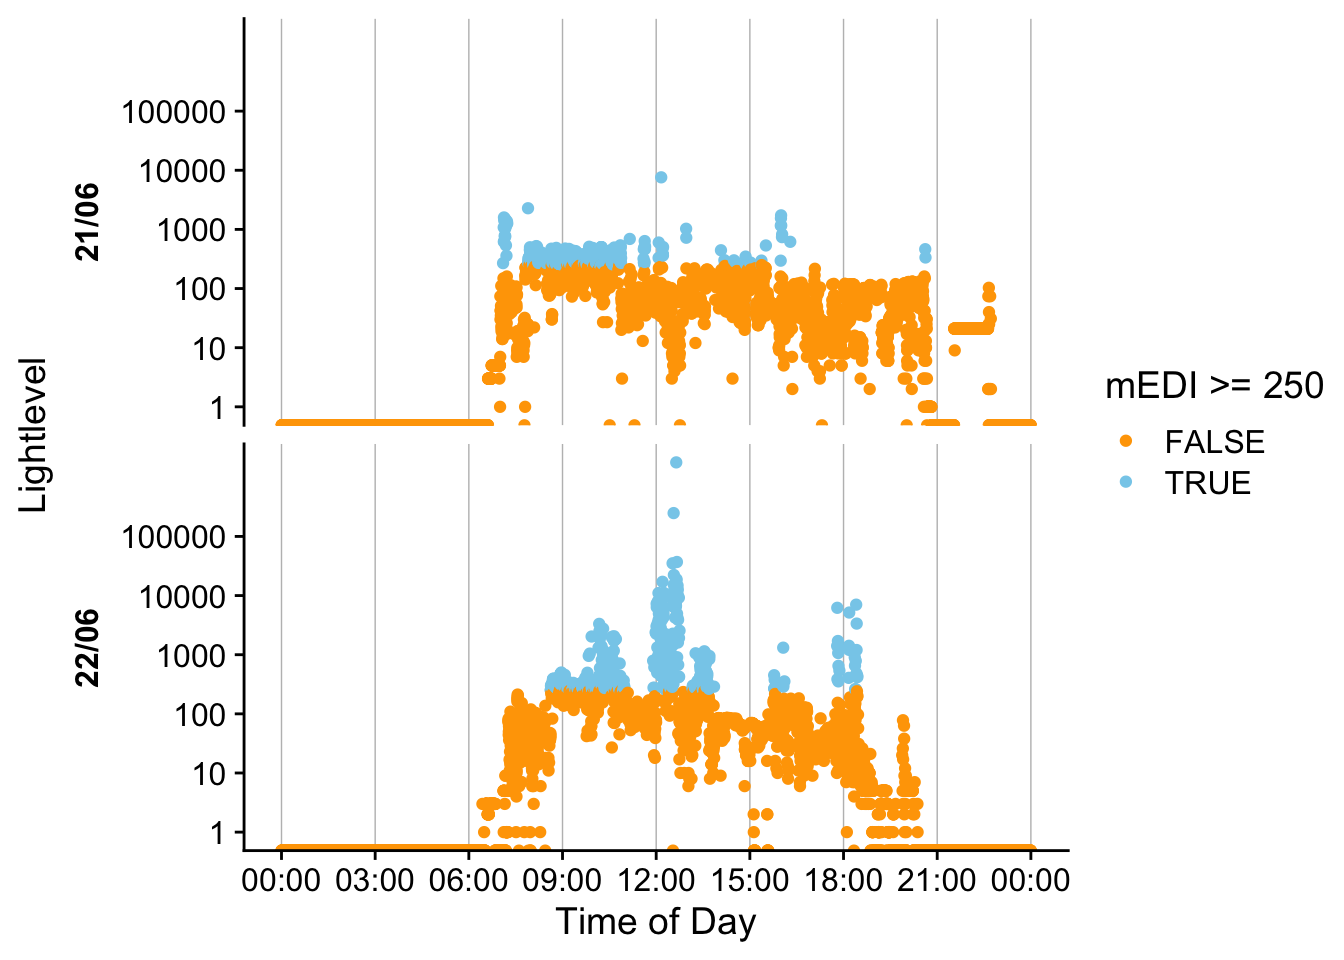
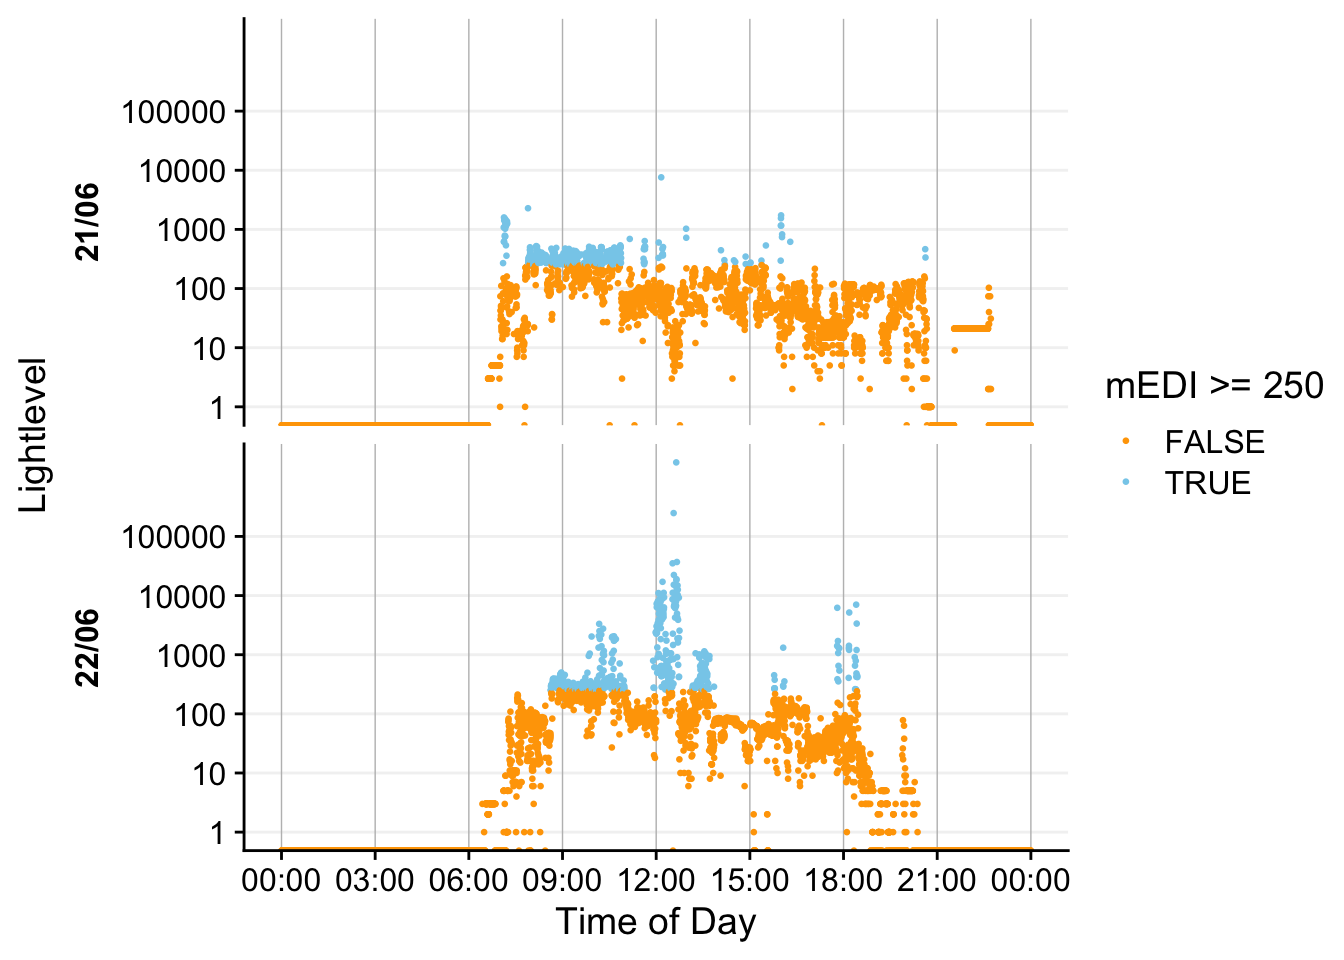
Update to README

diff --git a/README.md b/README.md
@@ -111,14 +111,17 @@ dataset %>% gg_day(y.axis = mEDI, y.axis.label = "mEDI (lx)")
 ```
 
 <img src="man/figures/README-unnamed-chunk-4-1.png" width="100%" />
-There is a wide range of options to the `gg_day` function to customize
-the output. Have a look at the reference page for `gg_day` to see all
-options. You can also override most of the defaults for different
-`color` or `facetting` options.
+
+There is a wide range of options to the `gg_day()` function to customize
+the output. Have a look at the reference page (`?gg_day`) to see all
+options. You can also override most of the defaults, e.g., for different
+`color`, `facetting`, `theme` options.
 
 ``` r
-dataset %>% gg_day(y.axis = mEDI, col = mEDI >= 250, scales = "fixed") + 
-  scale_color_discrete(type = c("orange", "skyblue"))
+dataset %>% 
+  gg_day(y.axis = mEDI, col = mEDI >= 250, scales = "fixed", size = 0.5) + 
+  scale_color_discrete(type = c("orange", "skyblue")) + 
+  theme(panel.grid.major.y = element_line("grey95"))
 #> Scale for colour is already present.
 #> Adding another scale for colour, which will replace the existing scale.
 #> Warning: Transformation introduced infinite values in continuous y-axis
